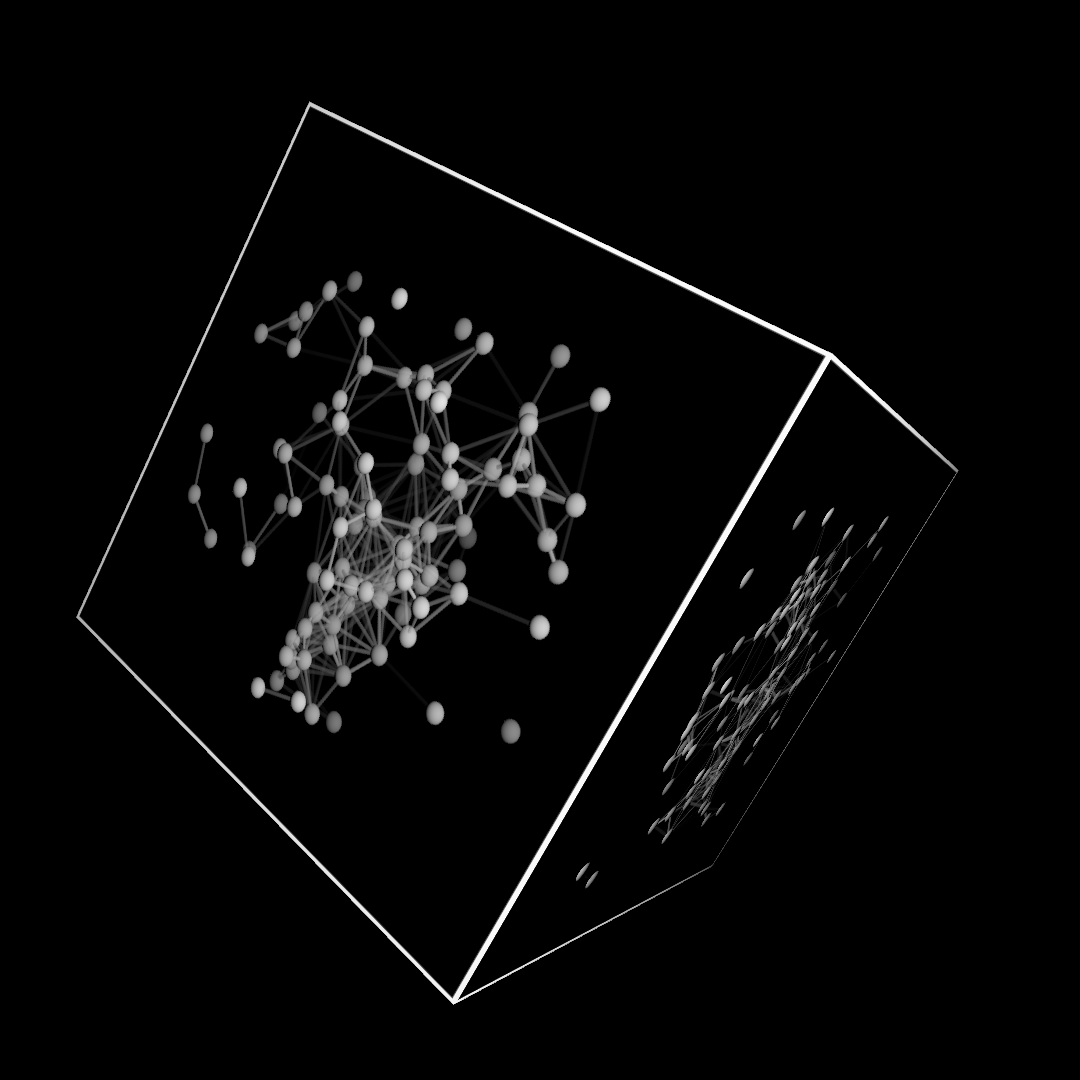
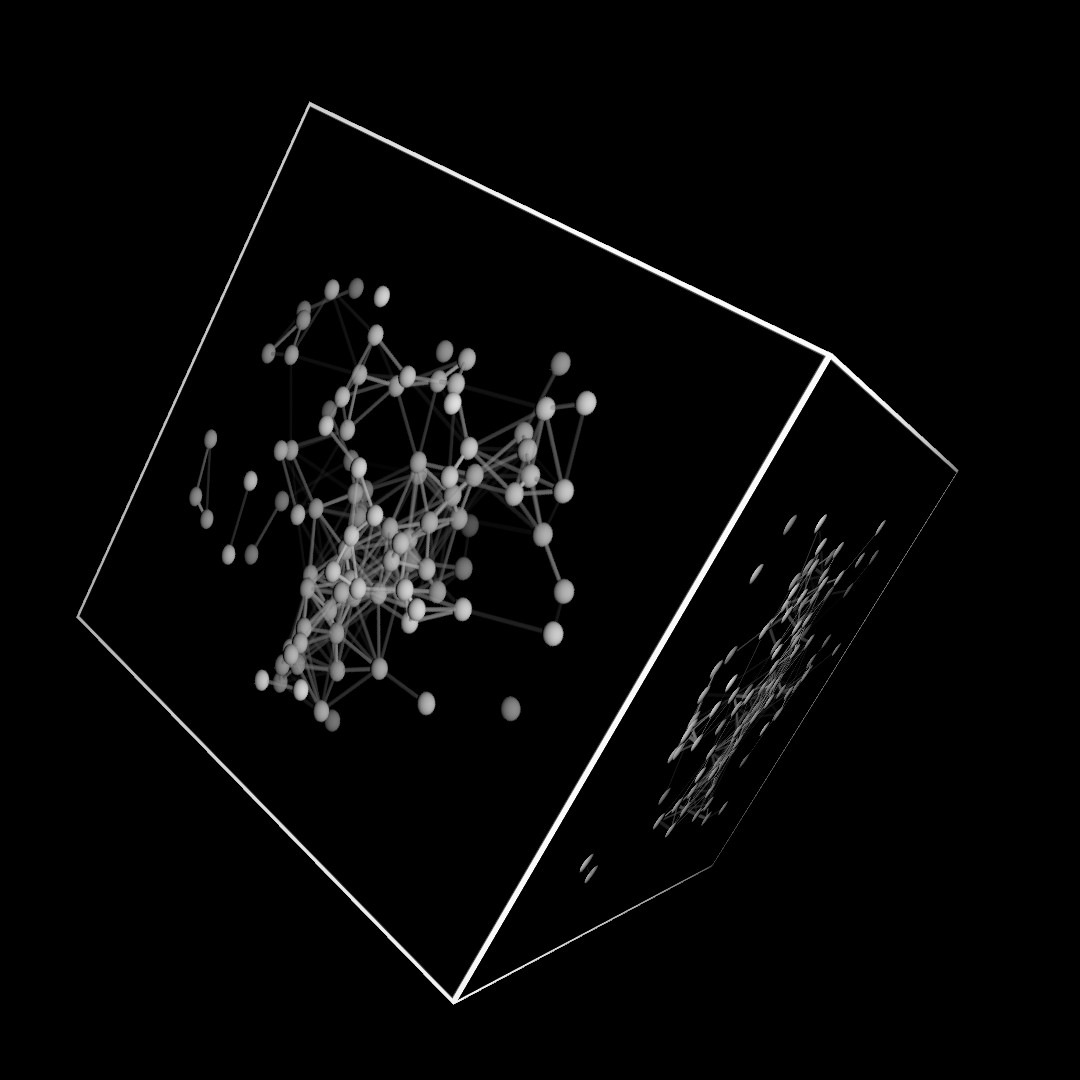
Make `!random` force reproducible
The seed for the normal source should be something that can be 
reproduced. It is now `state_prefix;run;interval` where `interval` is a 
new, per-run, simulation-frame counter. This avoids random errors when 
running tests under different conditions. The example images involving 
`!random` have all changed because of this.

diff --git a/docs/physics.md b/docs/physics.md
@@ -442,6 +442,8 @@ dictionary:
 - *prefix*`;:last` - the last value of `time`
 - *prefix*`;:clock` - the (zero-based) internal simulation clock
 - *prefix*`;:run` - the last run number (as an integer value)
+- *prefix*`;:iteration` - the number of the last simulation iteration for this
+run (an integer counting from `0`)
 - *prefix*`;`*id* - the last position of the particle
 - *prefix*`;`*id*`;:velocity` - the last velocity of the particle
 
